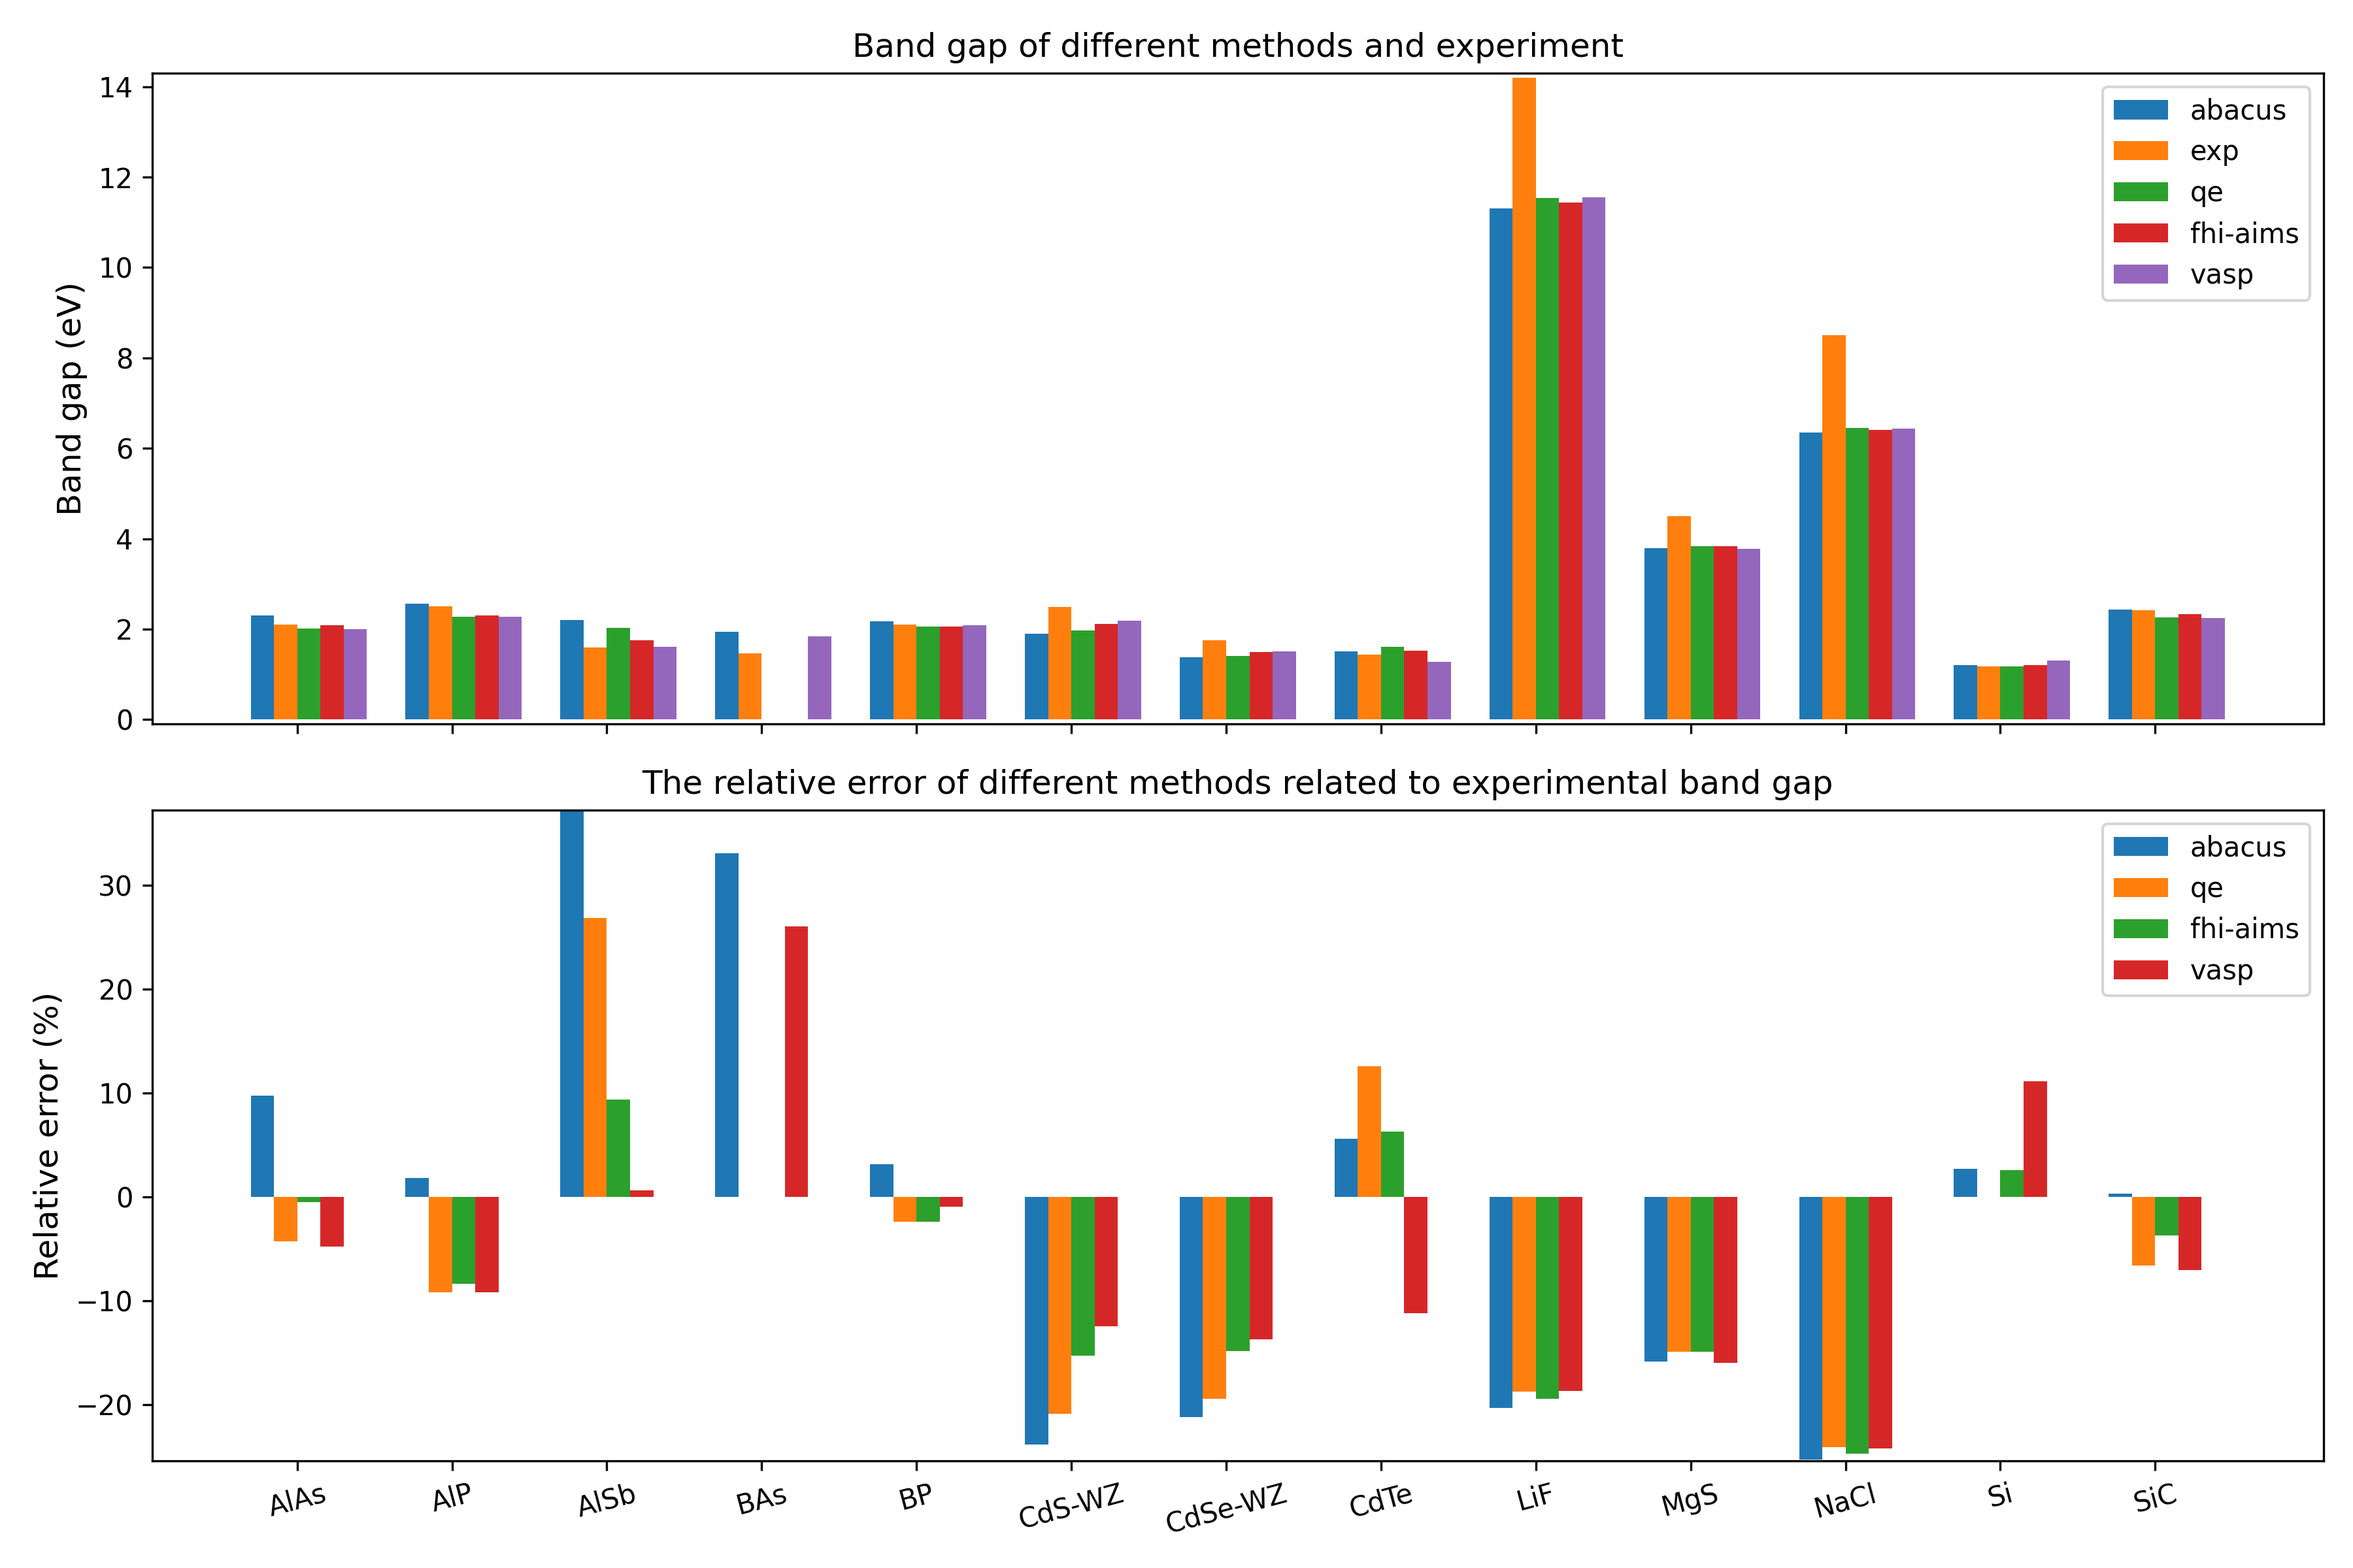
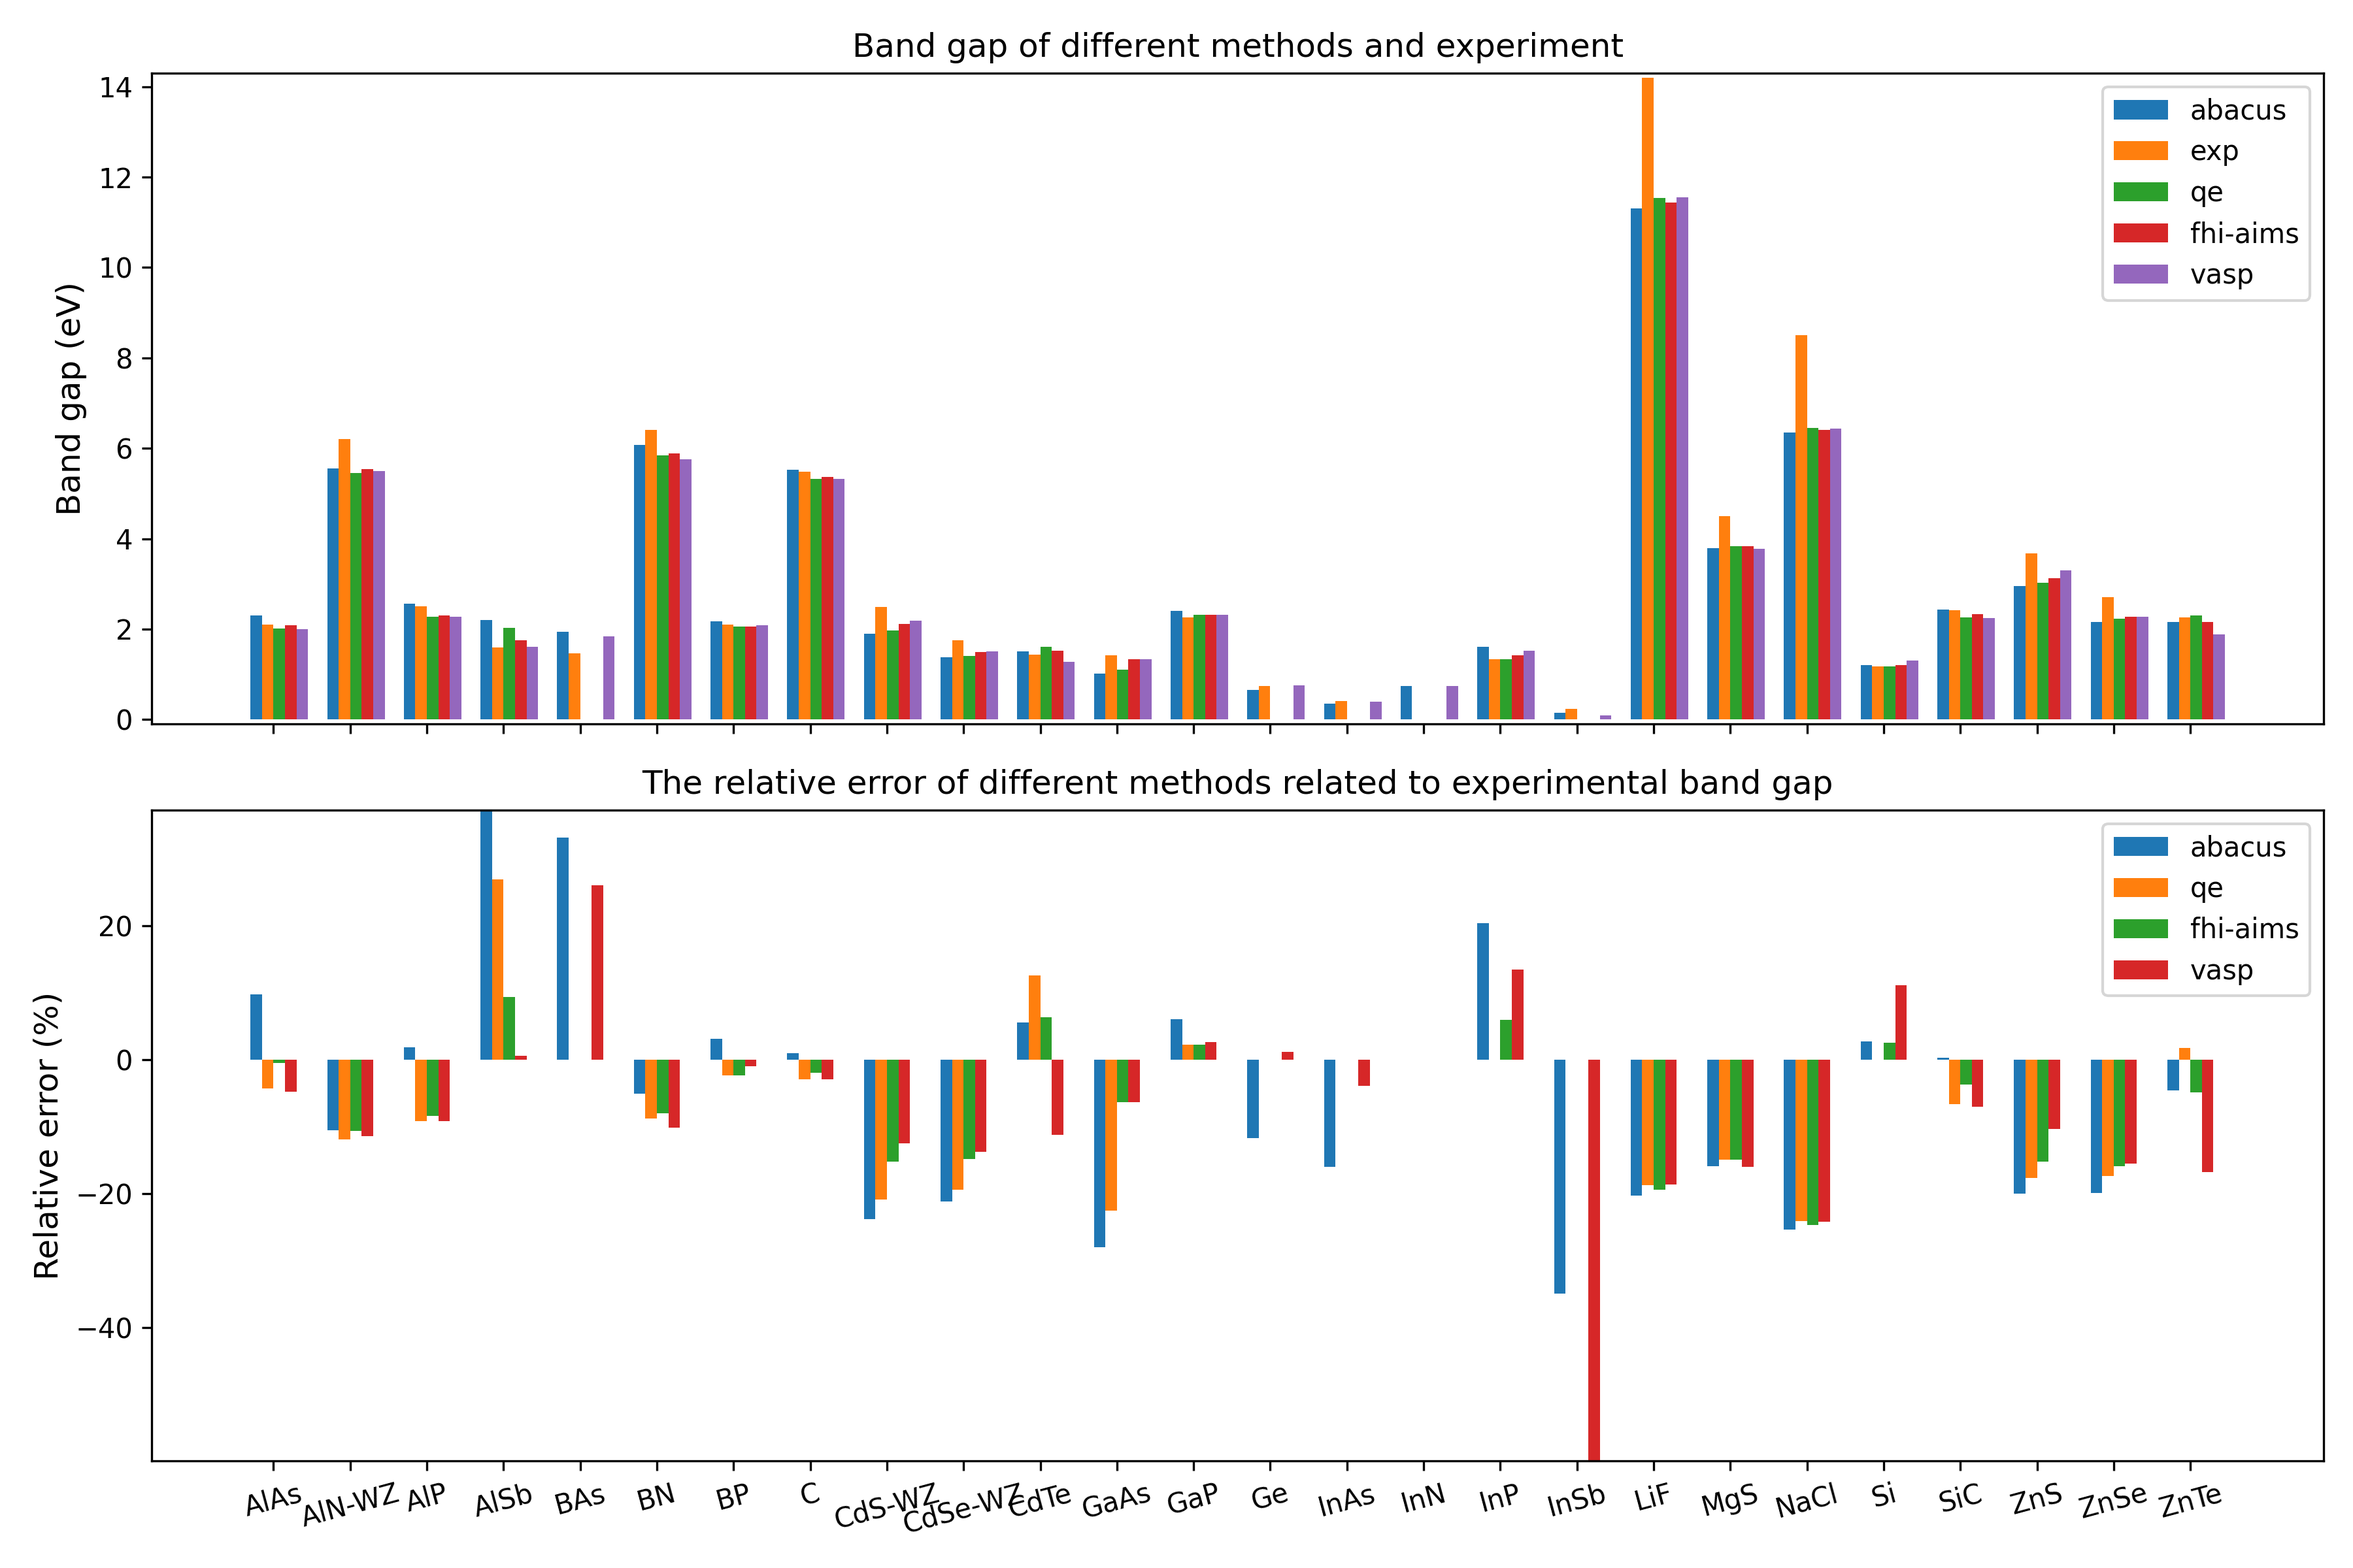
update sc

diff --git a/results/sc/sc.html b/results/sc/sc.html
@@ -100,8 +100,8 @@
 <body>
 	<table id="keys">
 		<tr><td><strong>Test_date</strong></td><td>:</td><td>2023-12-26</td></tr>
-		<tr><td><strong>Version</strong></td><td>:</td><td>v3.5.0(f44ade3 (Tue Dec 26 10:13:45 2023 +0800))</td></tr>
-		<tr><td><strong>Job_address</strong></td><td>:</td><td><a href="https://labs.dp.tech/projects/abacustest/?request=GET%3A%2Fapplications%2Fabacustest%2Fjobs%2Fjob-sc-abacustest-v0.3.74-3981c0">link</a></td></tr>
+		<tr><td><strong>Version</strong></td><td>:</td><td>v3.5.0(5a43bbf (Tue Dec 26 08:57:55 2023 +0000))</td></tr>
+		<tr><td><strong>Job_address</strong></td><td>:</td><td><a href="https://labs.dp.tech/projects/abacustest/?request=GET%3A%2Fapplications%2Fabacustest%2Fjobs%2Fjob-sc-abacustest-v0.3.74-a96a34">link</a></td></tr>
 		<tr><td><strong>Targets</strong></td><td>:</td><td>ABACUS HSE test on band gap of semiconductor systems</td></tr>
 		<tr><td><strong>Datasets</strong></td><td>:</td><td><a href="https://labs.dp.tech/projects/abacustest/?request=GET%3A%2Fapplications%2Fabacustest%2Fdatasets%2Fsemi-conductor">link</a></td></tr>
 		<tr><td><strong>Properties</strong></td><td>:</td><td>band gap</td></tr>
@@ -118,7 +118,7 @@
     <div class="imagetitle">Figure 1. Band gap of each system calculated by different softwares and experimental values, and the relative error from experimental values.</div>
 	<div class="doc">    The band gap of each system, calculated by ABACUS, along with the reference computed values from other software and experimental values, is presented in the following table. <strong>comp_ref_mean</strong> is the average of values obtained from QE, FHI-AIMS, and VASP. <strong>RE(Exp,%)</strong> represents the relative deviation of ABACUS from the experimental value. <strong>RE(comp_ref_mean,%)</strong> represents the relative deviation of ABACUS from the comp_ref_mean.</div>
 	<div class="tabletitle">Table 1.Band gap (eV) of each system, calculated by different softwares and experimental values.</div>
-	<div class="head2">Pass/Total: <font color="red">10/13 (76.92%)</font></div>
+	<div class="head2">Pass/Total: <font color="red">18/26 (69.23%)</font></div>
 
     <table border="2px">
         <tbody>
@@ -129,7 +129,7 @@
             </tr>
         <tr>
                 <td>RE(comp_ref_mean,%)</td>
-                <td style="color:red">10/13</td> 
+                <td style="color:red">18/26</td> 
                 <td>abs(x) < 10</td>
             </tr>
         </tbody>
@@ -139,18 +139,31 @@
 	<table border="2px">
 		<thead><tr><th>example</th><th>ABACUS</th><th>VASP</th><th>QE</th><th>FHI-AIMS</th><th>Exp.</th><th>comp_ref_mean</th><th>RE(Exp,%)</th><th>RE(comp_ref_mean,%)</th></tr></thead>
 		<tbody>			<tr><td>AlAs</td><td>2.31</td><td>2.00</td><td>2.01</td><td>2.09</td><td>2.10</td><td>2.03</td><td>9.77</td><td><font color="red">13.37</font></td></tr>
+			<tr><td>AlN-WZ</td><td>5.55</td><td>5.49</td><td>5.46</td><td>5.54</td><td>6.20</td><td>5.50</td><td>-10.51</td><td><font color="green">0.94</font></td></tr>
 			<tr><td>AlP</td><td>2.56</td><td>2.28</td><td>2.28</td><td>2.30</td><td>2.51</td><td>2.29</td><td>1.81</td><td><font color="red">11.75</font></td></tr>
 			<tr><td>AlSb</td><td>2.19</td><td>1.61</td><td>2.03</td><td>1.75</td><td>1.60</td><td>1.80</td><td>37.16</td><td><font color="red">22.15</font></td></tr>
 			<tr><td>BAs</td><td>1.94</td><td>1.84</td><td>---</td><td>---</td><td>1.46</td><td>1.84</td><td>33.11</td><td><font color="green">5.59</font></td></tr>
+			<tr><td>BN</td><td>6.07</td><td>5.75</td><td>5.84</td><td>5.89</td><td>6.40</td><td>5.83</td><td>-5.11</td><td><font color="green">4.23</font></td></tr>
 			<tr><td>BP</td><td>2.17</td><td>2.08</td><td>2.05</td><td>2.05</td><td>2.10</td><td>2.06</td><td>3.12</td><td><font color="green">5.12</font></td></tr>
+			<tr><td>C</td><td>5.53</td><td>5.32</td><td>5.32</td><td>5.37</td><td>5.48</td><td>5.34</td><td>0.96</td><td><font color="green">3.67</font></td></tr>
 			<tr><td>CdS-WZ</td><td>1.90</td><td>2.18</td><td>1.97</td><td>2.11</td><td>2.49</td><td>2.09</td><td>-23.85</td><td><font color="green">-9.13</font></td></tr>
 			<tr><td>CdSe-WZ</td><td>1.38</td><td>1.51</td><td>1.41</td><td>1.49</td><td>1.75</td><td>1.47</td><td>-21.20</td><td><font color="green">-6.19</font></td></tr>
 			<tr><td>CdTe</td><td>1.51</td><td>1.27</td><td>1.61</td><td>1.52</td><td>1.43</td><td>1.47</td><td>5.60</td><td><font color="green">2.96</font></td></tr>
+			<tr><td>GaAs</td><td>1.02</td><td>1.33</td><td>1.10</td><td>1.33</td><td>1.42</td><td>1.25</td><td>-28.00</td><td><font color="red">-18.43</font></td></tr>
+			<tr><td>GaP</td><td>2.40</td><td>2.32</td><td>2.31</td><td>2.31</td><td>2.26</td><td>2.31</td><td>6.08</td><td><font color="green">3.63</font></td></tr>
+			<tr><td>Ge</td><td>0.65</td><td>0.75</td><td>---</td><td>---</td><td>0.74</td><td>0.75</td><td>-11.69</td><td><font color="red">-12.74</font></td></tr>
+			<tr><td>InAs</td><td>0.34</td><td>0.39</td><td>---</td><td>---</td><td>0.41</td><td>0.39</td><td>-15.97</td><td><font color="red">-12.56</font></td></tr>
+			<tr><td>InN</td><td>0.75</td><td>0.74</td><td>---</td><td>---</td><td>---</td><td>0.74</td><td>---</td><td><font color="green">0.31</font></td></tr>
+			<tr><td>InP</td><td>1.61</td><td>1.52</td><td>1.34</td><td>1.42</td><td>1.34</td><td>1.43</td><td>20.36</td><td><font color="red">13.05</font></td></tr>
+			<tr><td>InSb</td><td>0.15</td><td>0.09</td><td>---</td><td>---</td><td>0.23</td><td>0.09</td><td>-34.94</td><td><font color="red">61.77</font></td></tr>
 			<tr><td>LiF</td><td>11.31</td><td>11.55</td><td>11.54</td><td>11.44</td><td>14.20</td><td>11.51</td><td>-20.34</td><td><font color="green">-1.72</font></td></tr>
 			<tr><td>MgS</td><td>3.79</td><td>3.78</td><td>3.83</td><td>3.83</td><td>4.50</td><td>3.81</td><td>-15.87</td><td><font color="green">-0.72</font></td></tr>
 			<tr><td>NaCl</td><td>6.35</td><td>6.44</td><td>6.45</td><td>6.40</td><td>8.50</td><td>6.43</td><td>-25.32</td><td><font color="green">-1.28</font></td></tr>
 			<tr><td>Si</td><td>1.20</td><td>1.30</td><td>1.17</td><td>1.20</td><td>1.17</td><td>1.22</td><td>2.69</td><td><font color="green">-1.79</font></td></tr>
 			<tr><td>SiC</td><td>2.43</td><td>2.25</td><td>2.26</td><td>2.33</td><td>2.42</td><td>2.28</td><td>0.29</td><td><font color="green">6.44</font></td></tr>
+			<tr><td>ZnS</td><td>2.95</td><td>3.30</td><td>3.03</td><td>3.12</td><td>3.68</td><td>3.15</td><td>-19.95</td><td><font color="green">-6.49</font></td></tr>
+			<tr><td>ZnSe</td><td>2.16</td><td>2.28</td><td>2.23</td><td>2.27</td><td>2.70</td><td>2.26</td><td>-19.91</td><td><font color="green">-4.32</font></td></tr>
+			<tr><td>ZnTe</td><td>2.16</td><td>1.88</td><td>2.30</td><td>2.15</td><td>2.26</td><td>2.11</td><td>-4.59</td><td><font color="green">2.20</font></td></tr>
 		</tbody>
 	</table>
 
